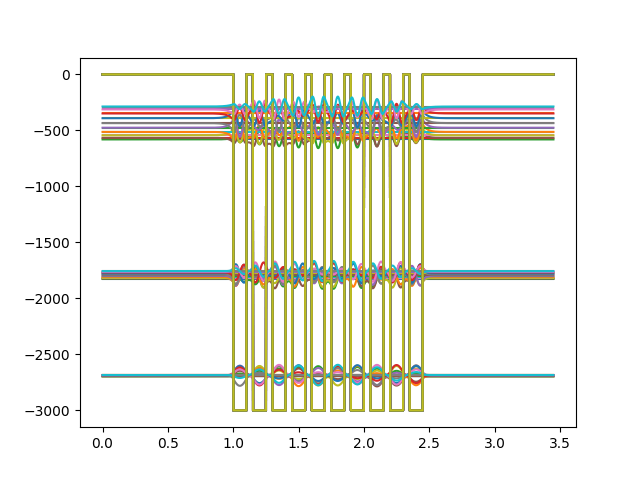
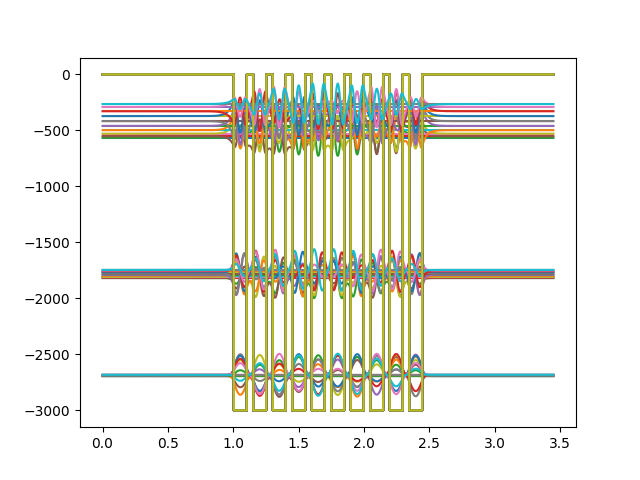
Updates of various nature :))

Changed region(s): [[0.1562, 0.1562, 0.875, 0.8438], [0.1562, 0.7812, 0.1875, 0.8125]]

diff --git a/1d_tusl.py b/1d_tusl.py
@@ -31,7 +31,7 @@ def well(x, w, n_w, b, L, V0=-3000):
 
 
 def analyze(n_w):
-	n = n_w*1000 + 500
+	n = n_w*200 + 500
 	L = (20 + n_w)*w + (n_w -1)*b
 	delta_x = L/(n+1)
 	x_vec = np.linspace(0, L, n)
@@ -88,9 +88,9 @@ def plot_wave_funcs(energies, wave_funcs, iter_lim, L, V_vals):
 	plt.show()
 
 
-E_b, w_b, iter_lim_b, L_b, V_vals_b = analyze(9)
+E_b, w_b, iter_lim_b, L_b, V_vals_b = analyze(4)
 plot_wave_funcs(E_b, w_b, iter_lim_b, L_b, V_vals_b)
 energies, wave_funcs, iter_lim, L, V_vals = analyze(10)
 plot_wave_funcs(energies, wave_funcs, iter_lim, L, V_vals)
 
-band_widths(2, 10)
+band_widths(1, 50)
